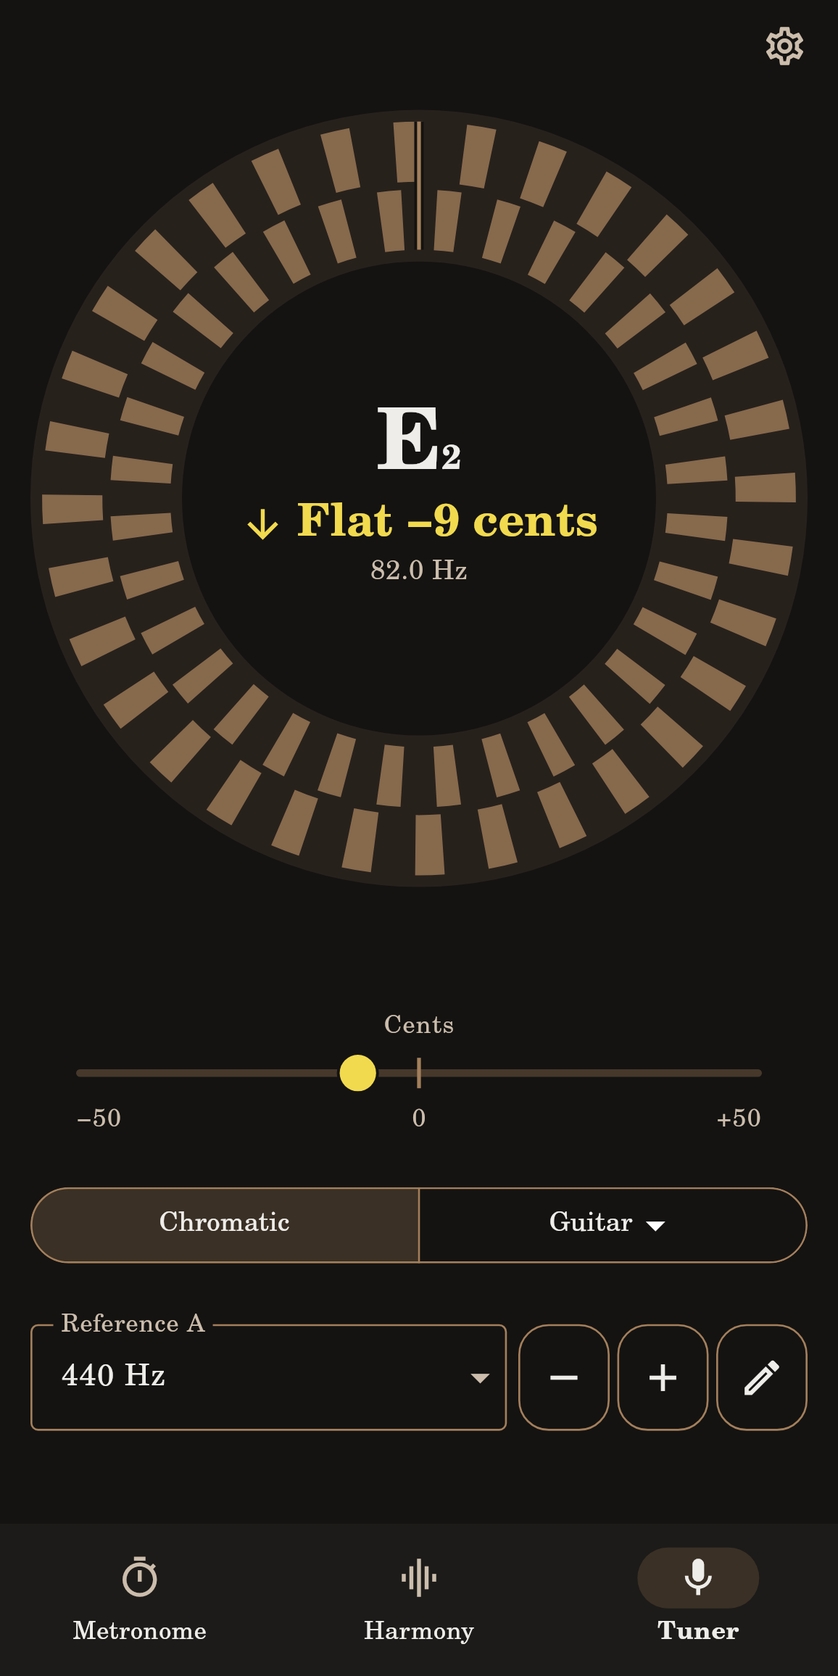
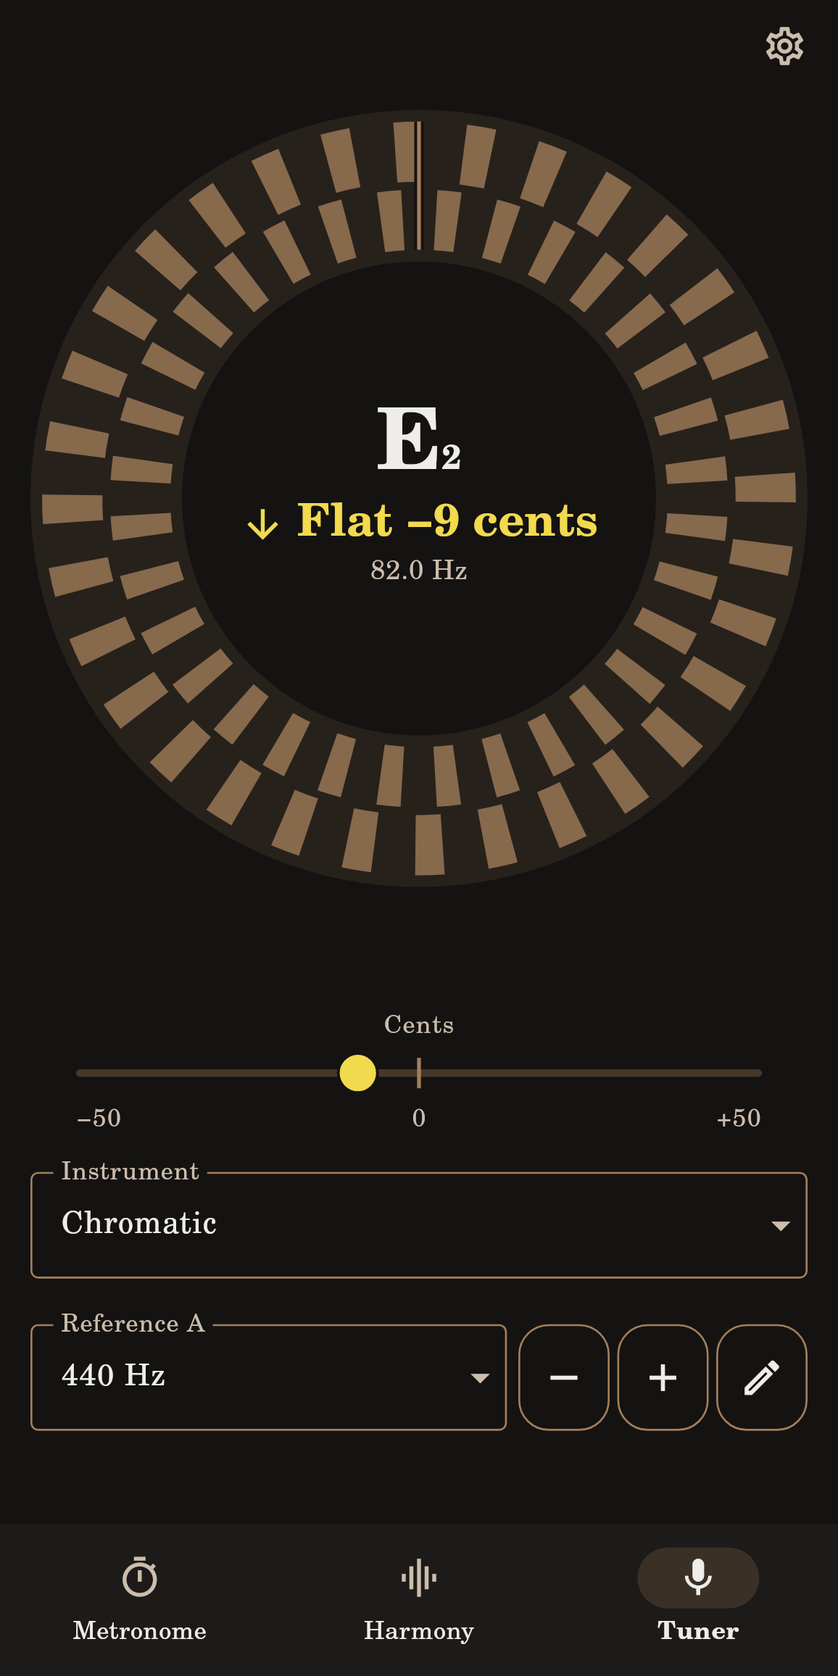
Tuner: one Instrument field, Chromatic first, in place of the pill
The field always names what is being tuned: Chromatic (with its key for a
transposing instrument) or the instrument. Its menu starts with Chromatic,
"Any note, no strings to choose", then the instruments with their open
strings, as the chord menu starts with the note alone. The last instrument
is still remembered; the default is unchanged. Docs and store screenshots
follow.

Claude-Session: https://claude.ai/code/session_01EnDFfk9dK6EWAjfADPPgic

Changed region(s): [[0.0311, 0.6851, 0.5294, 0.7785], [0.654, 0.7163, 0.7474, 0.7474], [0.9343, 0.6851, 0.9654, 0.7474]]

diff --git a/lib/features/tuner/tuner_panel.dart b/lib/features/tuner/tuner_panel.dart
@@ -14,7 +14,7 @@ import '../../audio/pitch.dart';
 import '../../l10n/app_localizations.dart';
 import '../../widgets/choice_menu.dart';
 import '../../widgets/dial.dart';
-import '../../widgets/pill_switch.dart';
+import '../../widgets/row_controls.dart';
 import '../../widgets/reference_pitch_row.dart';
 import 'tuner_controller.dart';
 import 'tuner_reading.dart';
@@ -146,8 +146,8 @@ class _TunerPanelState extends State<TunerPanel> {
                   ],
                 ),
           // Chromatic or an instrument, in the place of the harmony's
-          // Root / Chord / Progression.
-          upper: _TuningSwitch(settings: settings),
+          // Chord / Progression.
+          upper: _InstrumentField(settings: settings),
           // Listening starts and stops from the middle of the dial, like the
           // other two tabs; the last row is the reference A, in the same
           // pieces as the rows of the metronome and the harmony.
@@ -176,14 +176,14 @@ String _tuningName(AppLocalizations l10n, TunerTuning tuning) =>
       TunerTuning.bass => l10n.tuningBass,
     };
 
-/// Chromatic, or the strings of an instrument chosen from a menu, in the
-/// first row under the dial, drawn like the harmony's Root /
-/// Chord / Progression switches of the other tabs: 40 dp high to the eye,
-/// with 48 dp to touch. With strings, the tuner names the nearest open
-/// string, its number, and says how far off it is. The last instrument
-/// stays chosen.
-class _TuningSwitch extends StatelessWidget {
-  const _TuningSwitch({required this.settings});
+/// What the tuner listens for, in the first row under the dial: one field,
+/// like the harmony's chord menu, that always names what is being tuned.
+/// Chromatic comes first, as the note alone does in the chord menu; then the
+/// instruments with their open strings. With strings, the tuner names the
+/// nearest open string, its number, and says how far off it is. The last
+/// instrument stays remembered while the tuner is chromatic.
+class _InstrumentField extends StatelessWidget {
+  const _InstrumentField({required this.settings});
 
   final AppSettings settings;
 
@@ -194,79 +194,44 @@ class _TuningSwitch extends StatelessWidget {
     String strings(TunerTuning t) => t.strings
         .map((n) => n.label(names, numbering: settings.octaveNumbering))
         .join(' ');
-    final chromatic = settings.tunerChromatic;
-    Widget label(bool selected, Widget child) =>
-        PillSwitch.label(context, selected, child);
-    return PillSwitch(
-      key: const Key('tuningSwitch'),
-      leftFilled: chromatic,
-      rightFilled: !chromatic,
-      left: PillSwitch.half(
-        left: true,
-        child: Semantics(
-          button: true,
-          selected: chromatic,
-          child: InkWell(
-            key: const Key('tuningChromatic'),
-            onTap: () => settings.setTunerChromatic(true),
-            child: label(
-              chromatic,
-              Text(
-                settings.transposition == Transposition.c
-                    ? l10n.tuningChromatic
-                    : '${l10n.tuningChromatic} · '
-                          '${Note(settings.transposition.key, 4).name(names)}',
-                maxLines: 1,
+    // A transposing instrument says its key: "Chromatic · B♭".
+    final chromaticName = settings.transposition == Transposition.c
+        ? l10n.tuningChromatic
+        : '${l10n.tuningChromatic} · '
+              '${Note(settings.transposition.key, 4).name(names)}';
+    return Builder(
+      builder: (field) => LabeledField(
+        key: const Key('instrumentMenu'),
+        label: l10n.tuningInstrument,
+        value: settings.tunerChromatic
+            ? chromaticName
+            : _tuningName(l10n, settings.tunerInstrument),
+        onTap: () async {
+          final picked = await showChoiceMenu<TunerTuning>(
+            anchor: field,
+            selected: settings.tuning,
+            choices: [
+              Choice(
+                value: TunerTuning.chromatic,
+                title: chromaticName,
+                subtitle: l10n.tuningChromaticHint,
               ),
-            ),
-          ),
-        ),
-      ),
-      right: PillSwitch.half(
-        left: false,
-        child: Semantics(
-          button: true,
-          selected: !chromatic,
-          child: Builder(
-            builder: (half) => InkWell(
-              key: const Key('tuningInstrument'),
-              // Touched, the half is chosen at once, with the instrument it
-              // had; the menu that opens offers another.
-              onTap: () async {
-                settings.setTunerChromatic(false);
-                final picked = await showChoiceMenu(
-                  anchor: half,
-                  selected: settings.tunerInstrument,
-                  choices: [
-                    for (final t in TunerTuning.instruments)
-                      Choice(
-                        value: t,
-                        title: _tuningName(l10n, t),
-                        subtitle: strings(t),
-                      ),
-                  ],
-                );
-                if (picked != null) settings.setTunerInstrument(picked);
-              },
-              child: Tooltip(
-                message: l10n.tuningInstrument,
-                child: label(
-                  !chromatic,
-                  Row(
-                    mainAxisSize: MainAxisSize.min,
-                    children: [
-                      Text(
-                        _tuningName(l10n, settings.tunerInstrument),
-                        maxLines: 1,
-                      ),
-                      const Icon(Icons.arrow_drop_down),
-                    ],
-                  ),
+              for (final t in TunerTuning.instruments)
+                Choice(
+                  value: t,
+                  title: _tuningName(l10n, t),
+                  subtitle: strings(t),
                 ),
-              ),
-            ),
-          ),
-        ),
+            ],
+          );
+          if (picked == null) return;
+          if (picked.isChromatic) {
+            settings.setTunerChromatic(true);
+          } else {
+            settings.setTunerInstrument(picked);
+            settings.setTunerChromatic(false);
+          }
+        },
       ),
     );
   }

diff --git a/test/bass_support_test.dart b/test/bass_support_test.dart
@@ -336,15 +336,31 @@ void main() {
 
       scope.navigation.open(AppSection.tuner);
       await tester.pumpAndSettle();
-      expect(find.byKey(const Key('tuningSwitch')), findsOneWidget);
+      // One field that names what is tuned: Chromatic first in its menu.
+      final field = find.byKey(const Key('instrumentMenu'));
       expect(settings.tuning, TunerTuning.chromatic);
-      await tester.tap(find.byKey(const Key('tuningInstrument')));
+      expect(
+        find.descendant(of: field, matching: find.text('Chromatic')),
+        findsOneWidget,
+      );
+      expect(
+        find.descendant(of: field, matching: find.text('Guitar')),
+        findsNothing,
+        reason: 'the remembered instrument is not shown while chromatic',
+      );
+      await tester.tap(field);
       await tester.pumpAndSettle();
-      expect(settings.tuning, TunerTuning.guitar);
+      expect(find.text('Any note, no strings to choose'), findsOneWidget);
       await tester.tap(find.text('Violin').last);
       await tester.pumpAndSettle();
       expect(settings.tuning, TunerTuning.violin);
-      await tester.tap(find.byKey(const Key('tuningChromatic')));
+      expect(
+        find.descendant(of: field, matching: find.text('Violin')),
+        findsOneWidget,
+      );
+      await tester.tap(field);
+      await tester.pumpAndSettle();
+      await tester.tap(find.text('Chromatic').last);
       await tester.pumpAndSettle();
       expect(settings.tuning, TunerTuning.chromatic);
       expect(settings.tunerInstrument, TunerTuning.violin);

diff --git a/test/row_test.dart b/test/row_test.dart
@@ -9,6 +9,8 @@ import 'package:low_end/audio/mic_input.dart';
 import 'package:low_end/audio/tone_output.dart';
 import 'package:low_end/features/metronome/time_signature.dart';
 import 'package:low_end/features/tuner/drone/drone_controller.dart';
+import 'package:low_end/widgets/reference_pitch_row.dart';
+import 'package:low_end/widgets/row_controls.dart';
 import 'package:shared_preferences/shared_preferences.dart';
 
 Future<AudioScope> _pump(WidgetTester tester, AppSettings settings) async {
@@ -200,23 +202,19 @@ void main() {
     scope.drone.stop();
   });
 
-  testWidgets('the tuning switch keeps its press glow inside the pill', (
+  testWidgets('the instrument field is as tall as the reference A under it', (
     tester,
   ) async {
     await _pump(tester, AppSettings());
     await tester.tap(find.text('Tuner'));
     await tester.pumpAndSettle();
-    for (final key in ['tuningChromatic', 'tuningInstrument']) {
-      expect(
-        find.ancestor(
-          of: find.byKey(Key(key)),
-          matching: find.byType(ClipPath),
-        ),
-        findsWidgets,
-        reason: key,
-      );
-    }
-    final size = tester.getSize(find.byKey(const Key('tuningChromatic')));
-    expect(size.height, 48);
+    final instrument = tester.getSize(find.byKey(const Key('instrumentMenu')));
+    final reference = tester.getSize(
+      find.descendant(
+        of: find.byType(ReferencePitchRow),
+        matching: find.byType(LabeledField),
+      ),
+    );
+    expect(instrument.height, reference.height);
   });
 }

diff --git a/lib/l10n/app_localizations.dart b/lib/l10n/app_localizations.dart
@@ -770,6 +770,12 @@ abstract class AppLocalizations {
   /// **'Instrument'**
   String get tuningInstrument;
 
+  /// Under Chromatic in the tuner's instrument menu, where the other entries show their open strings.
+  ///
+  /// In en, this message translates to:
+  /// **'Any note, no strings to choose'**
+  String get tuningChromaticHint;
+
   /// No description provided for @tuningGuitar.
   ///
   /// In en, this message translates to:

diff --git a/lib/l10n/app_localizations_it.dart b/lib/l10n/app_localizations_it.dart
@@ -386,6 +386,9 @@ class AppLocalizationsIt extends AppLocalizations {
   String get tuningInstrument => 'Strumento';
 
   @override
+  String get tuningChromaticHint => 'Qualsiasi nota, senza scegliere la corda';
+
+  @override
   String get tuningGuitar => 'Chitarra';
 
   @override

diff --git a/lib/l10n/app_localizations_en.dart b/lib/l10n/app_localizations_en.dart
@@ -383,6 +383,9 @@ class AppLocalizationsEn extends AppLocalizations {
   String get tuningInstrument => 'Instrument';
 
   @override
+  String get tuningChromaticHint => 'Any note, no strings to choose';
+
+  @override
   String get tuningGuitar => 'Guitar';
 
   @override

diff --git a/docs/style.md b/docs/style.md
@@ -7,7 +7,7 @@ One place that says what Low End looks like, so that a new screen is built from 
 The metronome, the harmony and the tuner do different things, but they must look like one app: **share shapes and proportions as much as possible, and when in doubt make a section look like the others, not like itself.** In practice:
 
 - The dial is the same size, in the same place, on all three tabs; its middle is the button and says the state in the same two sizes (display, then caption).
-- Under it, the same three rows. The first is empty on the metronome and the harmony, so that their controls sit lower, near the thumb, and holds the cents bar on the tuner, next to the strobe. The second is a pill or a switch: on the metronome a pill with two halves that open menus (the time signature, and what fills the beat: note figures drawn by `NoteIcon`: a quarter, two eighths beamed, a beamed triplet under a 3, four sixteenths beamed, and the swung ones with the word "Swing" beside them); on the harmony Chord / Progression; on the tuner Chromatic | instrument. The third is the row of controls: TAP over half the row with −, + and the pencil on the metronome; the chord or progression menu and the options on the harmony; the reference A on the tuner.
+- Under it, the same three rows. The first is empty on the metronome and the harmony, so that their controls sit lower, near the thumb, and holds the cents bar on the tuner, next to the strobe. The second is a pill or a switch: on the metronome a pill with two halves that open menus (the time signature, and what fills the beat: note figures drawn by `NoteIcon`: a quarter, two eighths beamed, a beamed triplet under a 3, four sixteenths beamed, and the swung ones with the word "Swing" beside them); on the harmony Chord / Progression; on the tuner the Instrument field (`LabeledField`, Chromatic first in its menu, like the note alone in the chord menu). The third is the row of controls: TAP over half the row with −, + and the pencil on the metronome; the chord or progression menu and the options on the harmony; the reference A on the tuner.
 - The row of controls is built from the same pieces everywhere (`lib/widgets/row_controls.dart`): a **field with its name on the border** (the reference A, the chord or progression menu; `LabeledField(showLabel: false)` hides the name on the border but keeps it for screen readers), **chips** (TAP, −, +) and an **icon button** at the end (the sound options, the pencil), or at the start (`RowIconButton(leads: true)`: the example songs before the progression menu). A new control is made from these; if none fits, change them for everyone.
 - **A button that is to be pressed is filled.** The buttons that step a value (−, +) are Material `OutlinedButton`s; TAP, which you play rather than set, is a `FilledButton.tonal` in `primaryContainer` with its text in `onPrimaryContainer` (`RowChip(filled: true)`), so that it reads as pressable. The pair keeps the contrast checked by `theme_test.dart` and `accessibility_test.dart`.
 - − and + step a value, the pencil types it or chooses from a list, a touch on the field opens the same choice. Where holding − or + runs the value (the metronome's tempo), the chips have no tooltip, which a hold would open: their name is a semantics label. A touch counts as a hold after `kLongPressTimeout`, like every long press on the phone.
@@ -33,7 +33,7 @@ Rules: pick a role, never a number; the three dials show their value in `display
 | --- | --- |
 | Corner radius of buttons, cards, menus | 16 (`LowEndShape.radius`) |
 | Round or rounded control | at least 48 × 48, the smallest touch target |
-| Rows under a dial | three rows of the same height (`DialLayout.rowHeight`, 80, spacing included) and no space between them, on every tab: a dial and three rows. Second row: the pill of the metronome (time signature \| what fills the beat) and of the tuner (Chromatic \| instrument), 40 dp high to the eye and 48 to touch (`PillSwitch`), and the harmony's Chord / Progression (64 high, `LowEndShape.row`). Third row: the row of controls. First row: empty on the metronome and the harmony (the same height, so that their rows sit where the tuner's do); on the tuner a cents bar (thin track, 2 by 16 middle mark, round thumb, no shaded zone, with the word "Cents" over it and −50, 0, +50 written under it; the thumb takes the verdict's colour and shrinks from 10 to 5 dp the further off the note is, grey while a note is only held). The row of controls is the field, chips and icon button of `row_controls.dart`, all as tall as a line of text with the same padding (so they grow together with large text): TAP, −, +, pencil on the metronome; chord / progression, options on the harmony; reference A, −, +, pencil on the tuner |
+| Rows under a dial | three rows of the same height (`DialLayout.rowHeight`, 80, spacing included) and no space between them, on every tab: a dial and three rows. Second row: the pill of the metronome (time signature \| what fills the beat) 40 dp high to the eye and 48 to touch (`PillSwitch`), the harmony's Chord / Progression (64 high, `LowEndShape.row`) and the tuner's Instrument field (as tall as the reference A field under it). Third row: the row of controls. First row: empty on the metronome and the harmony (the same height, so that their rows sit where the tuner's do); on the tuner a cents bar (thin track, 2 by 16 middle mark, round thumb, no shaded zone, with the word "Cents" over it and −50, 0, +50 written under it; the thumb takes the verdict's colour and shrinks from 10 to 5 dp the further off the note is, grey while a note is only held). The row of controls is the field, chips and icon button of `row_controls.dart`, all as tall as a line of text with the same padding (so they grow together with large text): TAP, −, +, pencil on the metronome; chord / progression, options on the harmony; reference A, −, +, pencil on the tuner |
 | Dial and rows | the dial at the same height on every tab; the controls sit lower, nearer the thumb, with only a little room left under them for a row that grows (`DialLayout`) |
 | Dial | one disc, a ring from 0.64 to 0.97 of the radius, a hub of 0.61; the same position and size on every tab (`DialGeometry`, `dial_alignment_test.dart`) |
 | Ring segments | metronome: thinner band (0.22 to 0.92 of the ring), one segment per beat, the lit "one" wider (0.12 to 1), a bar of one beat is a whole ring; harmony: the whole ring, twelve keys; tuner: two bands of thin segments |

diff --git a/docs/manuale-utente.md b/docs/manuale-utente.md
@@ -12,7 +12,7 @@ Le schede in basso (a sinistra con il telefono in orizzontale) sono **Metronomo*
 - **Scorri** a destra o a sinistra per cambiare sezione. Con il telefono in orizzontale le schede passano in una colonna a sinistra e l'ingranaggio resta in alto a destra: **scorri verso l'alto o il basso** sul cerchio o sulle schede (non sulle righe a destra, che possono scorrere) per cambiare sezione. Dev'essere un gesto rapido: un trascinamento lento non fa nulla. La prima volta che giri il telefono in orizzontale un breve suggerimento lo ricorda.
 - Per le prove, **Blocca i gesti** nelle impostazioni disattiva gli scorrimenti tra le sezioni. Le schede continuano a funzionare.
 - La prima volta compare una **guida ai gesti** di una pagina; la ritrovi in *Impostazioni → Gesti e scorciatoie*.
-- Sotto ogni cerchio ci sono tre righe. Metronomo e Armonia lasciano vuota la prima e usano la seconda e la terza, così i comandi stanno più in basso, vicino al pollice; l'accordatore le usa tutte e tre: la barra dei cent per prima, vicino allo strobo, poi Cromatico / strumento e il La di riferimento.
+- Sotto ogni cerchio ci sono tre righe. Metronomo e Armonia lasciano vuota la prima e usano la seconda e la terza, così i comandi stanno più in basso, vicino al pollice; l'accordatore le usa tutte e tre: la barra dei cent per prima, vicino allo strobo, poi il campo Strumento e il La di riferimento.
 
 Il volume è quello del telefono: usa i suoi tasti.
 
@@ -44,8 +44,8 @@ Dodici tasti intorno a un cerchio (di norma nel cerchio delle quinte; nelle impo
 - **Se metronomo o armonia stanno suonando**, entrare nell'accordatore non ferma nulla: il cerchio dice *Ascolta* e *Ascoltare mette in pausa ciò che suona*. Tocca il cerchio e vanno in pausa, così il microfono sente solo il tuo strumento, con un avviso *In pausa mentre accordi* e un pulsante **Riprendi** che li fa ripartire. Uscendo dall'accordatore non riprende nulla da solo.
 - Il La di riferimento è nella terza riga: **−** e **+** si muovono di 1 Hz, la matita permette di scrivere il valore o scegliere uno di quelli standard (415, 432, 440, 442 Hz).
 - Sente le note da 28 Hz fino a 2800 Hz (il limite acuto del violino e del flauto) e riconosce qualsiasi nota, senza dover scegliere prima la corda. Con il basso scelto ascolta solo fino a 700 Hz, perché le voci non disturbino.
-- **Strumenti traspositori**: nelle *Impostazioni* scegli Si♭ (clarinetto, tromba, sax soprano e tenore), Mi♭ (sax contralto e baritono) o Fa (corno), e l'accordatore cromatico mostra la nota **scritta**, con la tonalità accanto a «Cromatico» nella prima riga e sul cerchio.
-- La metà **Strumento** della seconda riga (a sinistra c'è Cromatico) apre un menu con chitarra, violino, viola, violoncello, ukulele e basso, e mostra il numero della corda.
+- **Strumenti traspositori**: nelle *Impostazioni* scegli Si♭ (clarinetto, tromba, sax soprano e tenore), Mi♭ (sax contralto e baritono) o Fa (corno), e l'accordatore cromatico mostra la nota **scritta**, con la tonalità accanto a «Cromatico» nel campo Strumento e sul cerchio.
+- Il campo **Strumento** dice sempre cosa stai accordando. Il suo menu comincia con Cromatico (qualsiasi nota), poi chitarra, violino, viola, violoncello, ukulele e basso con le loro corde a vuoto; con uno strumento l'accordatore mostra il numero della corda. L'ultimo strumento scelto resta ricordato.
 - L'accordatore smette di ascoltare quando lasci la sezione, apri le impostazioni o porti l'app in secondo piano.
 - Il suono è analizzato sul telefono e non viene mai registrato né inviato.
 - Se hai negato il microfono, consentilo nelle impostazioni del telefono in *App › Low End › Autorizzazioni*; l'app mostra un pulsante che apre quella pagina.

diff --git a/docs/user-guide.md b/docs/user-guide.md
@@ -12,7 +12,7 @@ The tabs at the bottom (on the left when the phone is sideways) are **Metronome*
 - **Swipe** left or right to change section. With the phone turned sideways the tabs move to a column on the left and the settings gear stays top right: **swipe up or down** over the dial or the tabs (not over the rows on the right, which may scroll) to change section. It has to be a quick flick: a slow drag does nothing. The first time you turn the phone sideways a short hint says so.
 - For rehearsals, **Lock the gestures** in the settings turns off the swipes between sections. The tabs still work.
 - The first time you open the app a one-page **gesture guide** appears. It is also in *Settings → Gestures and shortcuts*.
-- Under every dial there are three rows. Metronome and Harmony leave the first empty and use the second and third, so their controls sit lower, near the thumb; the tuner uses all three, with the cents bar first, next to the strobe, then the Chromatic / instrument switch and the reference A.
+- Under every dial there are three rows. Metronome and Harmony leave the first empty and use the second and third, so their controls sit lower, near the thumb; the tuner uses all three, with the cents bar first, next to the strobe, then the Instrument field and the reference A.
 
 The volume is the phone's: use its volume keys.
 
@@ -44,8 +44,8 @@ Twelve keys round a dial (by default in the circle of fifths; you can ask for se
 - **If the metronome or the harmony is playing**, coming to the tuner stops nothing: the dial says *Listen* and *Listening pauses what is playing*. Touch the dial and they pause, so the microphone hears only your instrument, with a notice *Paused while you tune* and a **Resume** button that starts them again. Nothing resumes by itself when you leave the tuner.
 - The reference A is in the third row: **−** and **+** move by 1 Hz, and the pencil takes a typed value or one of the standard ones (415, 432, 440, 442 Hz).
 - It hears notes from 28 Hz up to 2800 Hz (the top of the violin and of the flute), and it names any note, with no string to choose first. With the bass chosen it listens up to 700 Hz only, so that voices do not get in the way.
-- **Transposing instruments**: in *Settings*, choose B♭ (clarinet, trumpet, soprano and tenor sax), E♭ (alto and baritone sax) or F (horn), and the chromatic tuner names the **written** note, with the key beside "Chromatic" on the first row and on the dial.
-- The **Instrument** half of the second row (the left half is Chromatic) opens a menu of guitar, violin, viola, cello, ukulele and bass, and shows the number of the string.
+- **Transposing instruments**: in *Settings*, choose B♭ (clarinet, trumpet, soprano and tenor sax), E♭ (alto and baritone sax) or F (horn), and the chromatic tuner names the **written** note, with the key beside "Chromatic" in the Instrument field and on the dial.
+- The **Instrument** field always names what you are tuning. Its menu starts with Chromatic (any note), then guitar, violin, viola, cello, ukulele and bass with their open strings; with an instrument the tuner shows the number of the string. The last instrument stays remembered.
 - The tuner stops listening when you leave the section, open the settings or send the app to the background.
 - The sound is analysed on the phone and never recorded or sent anywhere.
 - If you said no to the microphone, allow it in the phone settings under *Apps › Low End › Permissions*; the app shows a button that opens that page.
